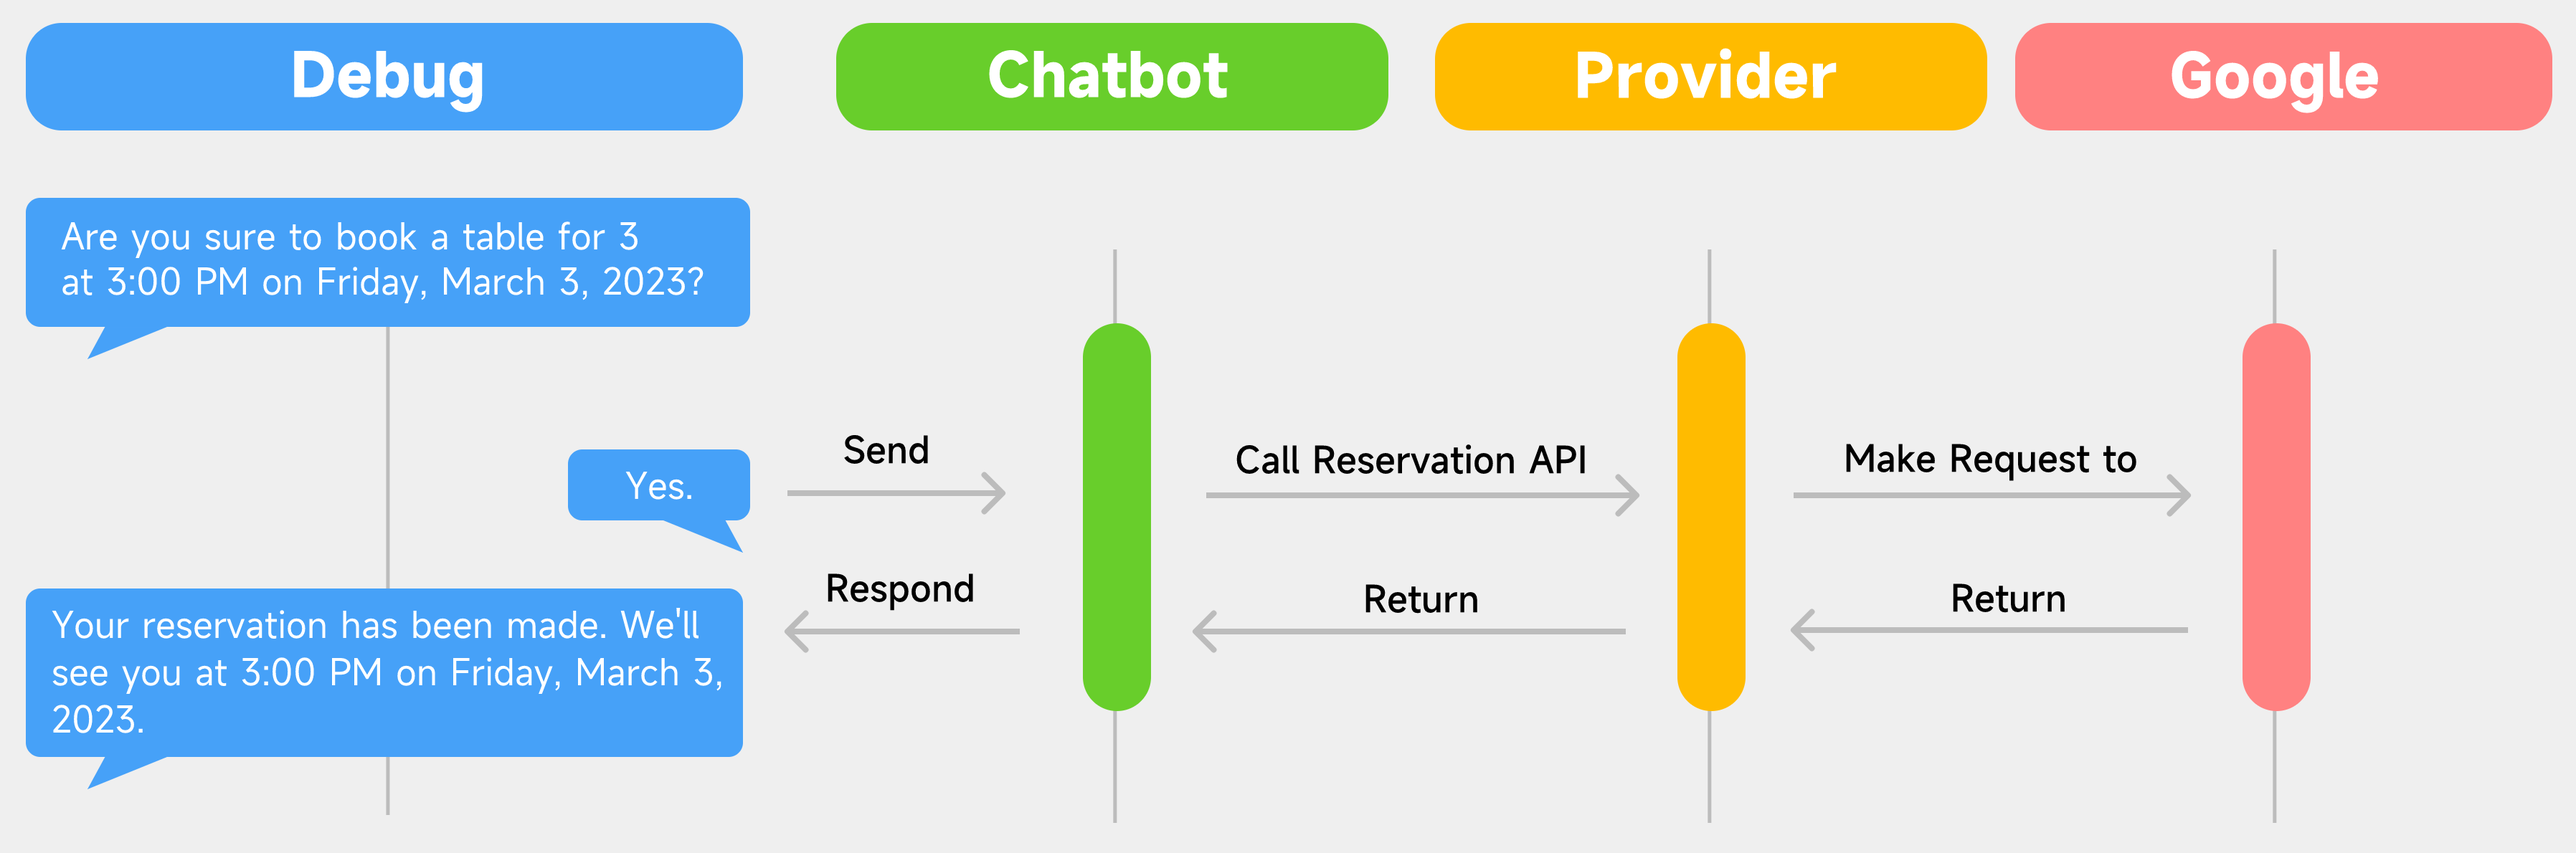
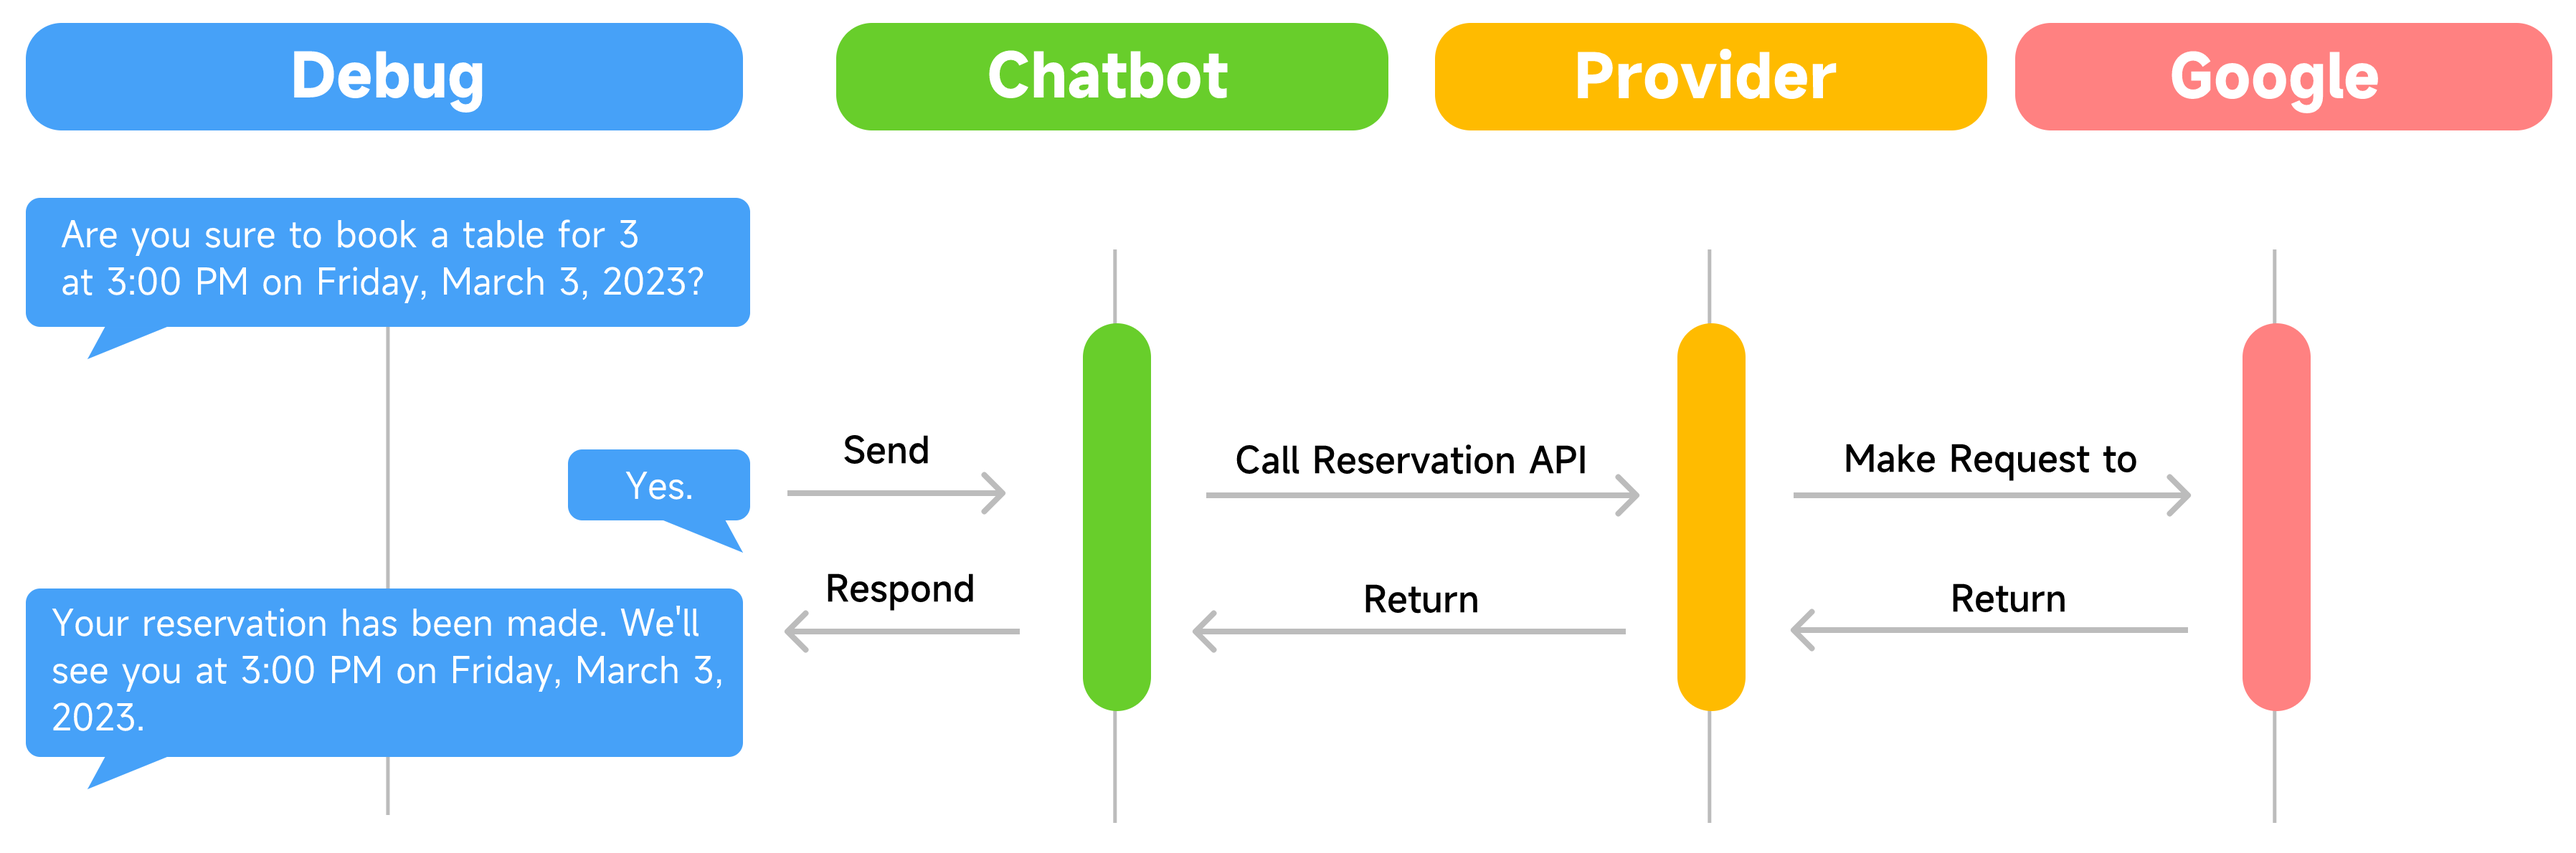
adjust the pictures at the beginning of the articles

Changed region(s): [[0.0, 0.7151, 0.2806, 0.8706], [0.0312, 0.2487, 0.2494, 0.3109]]

diff --git a/docs/articles/reuse-reservation-module.md b/docs/articles/reuse-reservation-module.md
@@ -9,7 +9,9 @@ description:
 author: Sunny May
 ---
 
-# How to reuse reservation module to build chatbot
+# Reuse reservation module to build chatbot
+![message process](/images/blog/tutorial-reuse-reservation/message-process.png)
+
 This guide shows you how to build a table reservation chatbot by reusing a module. A module is a reusable conversational user interface(CUI) component whose conversational behavior is defined on top of some service APIs. Service can have one or more backend implementations, each can be accessed via its corresponding provider.
 
 Modules can be composed into bigger ones to provide more comprehensive conversational experience. By importing the right module into your chatbot, you can quickly add new conversational functionality. In this guide, we demonstrate how you can add table reservation to your chatbot using the [table reservation module](https://build.opencui.io/org/me.restaurant/agent/tableReservation/struct/type). The table reservation module relies on a base module called the [reservation API](../reference/plugins/services/reservation/reservation-api.md), which currently has a [Google Calendar based provider](../reference/plugins/services/reservation/google-calendar-reservation.md). 
@@ -200,6 +202,7 @@ Finally, you can try to use your chatbot to make a table reservation. To test th
 
 
 The picture below shows how the reservation is made.
+
 ![message process](/images/blog/tutorial-reuse-reservation/message-process.png)
 
 

diff --git a/docs/articles/chatbot-development-with-opencui.md b/docs/articles/chatbot-development-with-opencui.md
@@ -10,8 +10,6 @@ author: Sean Wu
 ---
 
 # Chatbot Development with OpenCUI
-![Banner](/images/blog/banner/chatbot_development_with_opencui.png)
-
 Modern graphical user interface (GUI) applications are typically decomposed into frontend and backend, which are connected by predefined service APIs. Backends provide the implementation of these APIs, which are then consumed by frontends developed on mobile, web and messaging platforms. Frontends are further decomposed into perception layer and interaction logic layer according to model-view-controller design pattern. Different tasks can then be handled by different people who specialized in that task. Specializing allows individuals to become more skilled and efficient at that task, which can result in reduced costs and improved quality. Unfortunately, while there are frontend framework Vue or SwiftUI make division of labor possible for GUI development, we do not have something equivalent for conversational user interface (CUI) development, that is until OpenCUI.
 
 OpenCUI is open source CUI framework designed to greatly reduce the complexity of building functional chatbot that deliver business result. It promotes a [3 layers approach](https://opencui.medium.com/4-layers-of-chatbot-658ccceea382) so that business can benefit from division of labor when implementing chatbot. Since chatbot are CUI based instead of GUI based, we have to make some adaptations. 

diff --git a/docs/articles/from-schema-to-snippets.md b/docs/articles/from-schema-to-snippets.md
@@ -10,9 +10,10 @@ author: Bird Zeng
 ---
 
 # From Schema to Snippets: A Blueprint for Chatbot
-![Banner](/images/blog/banner/from-schema-to-snippets.png)
-
 > Building Efficient Chatbots: The 3 Essential Steps Every Business Should Follow After ChatGPT
+
+![start from schema](/images/blog/from-schema-to-snippets/start-from-schema.png)
+*The scheme representation of a simple restaurant reservation service*
 
 When designing conversational user experiences, there is often a focus on making chatbots smart, intelligent, and human-like. However, this approach can be driven more by technology constraints than the actual services being provided. While language models like ChatGPT can enhance customer experience, they can not determine the business logic of the chatbot, which requires a deep understanding of specific industry requirements and goals.
 
